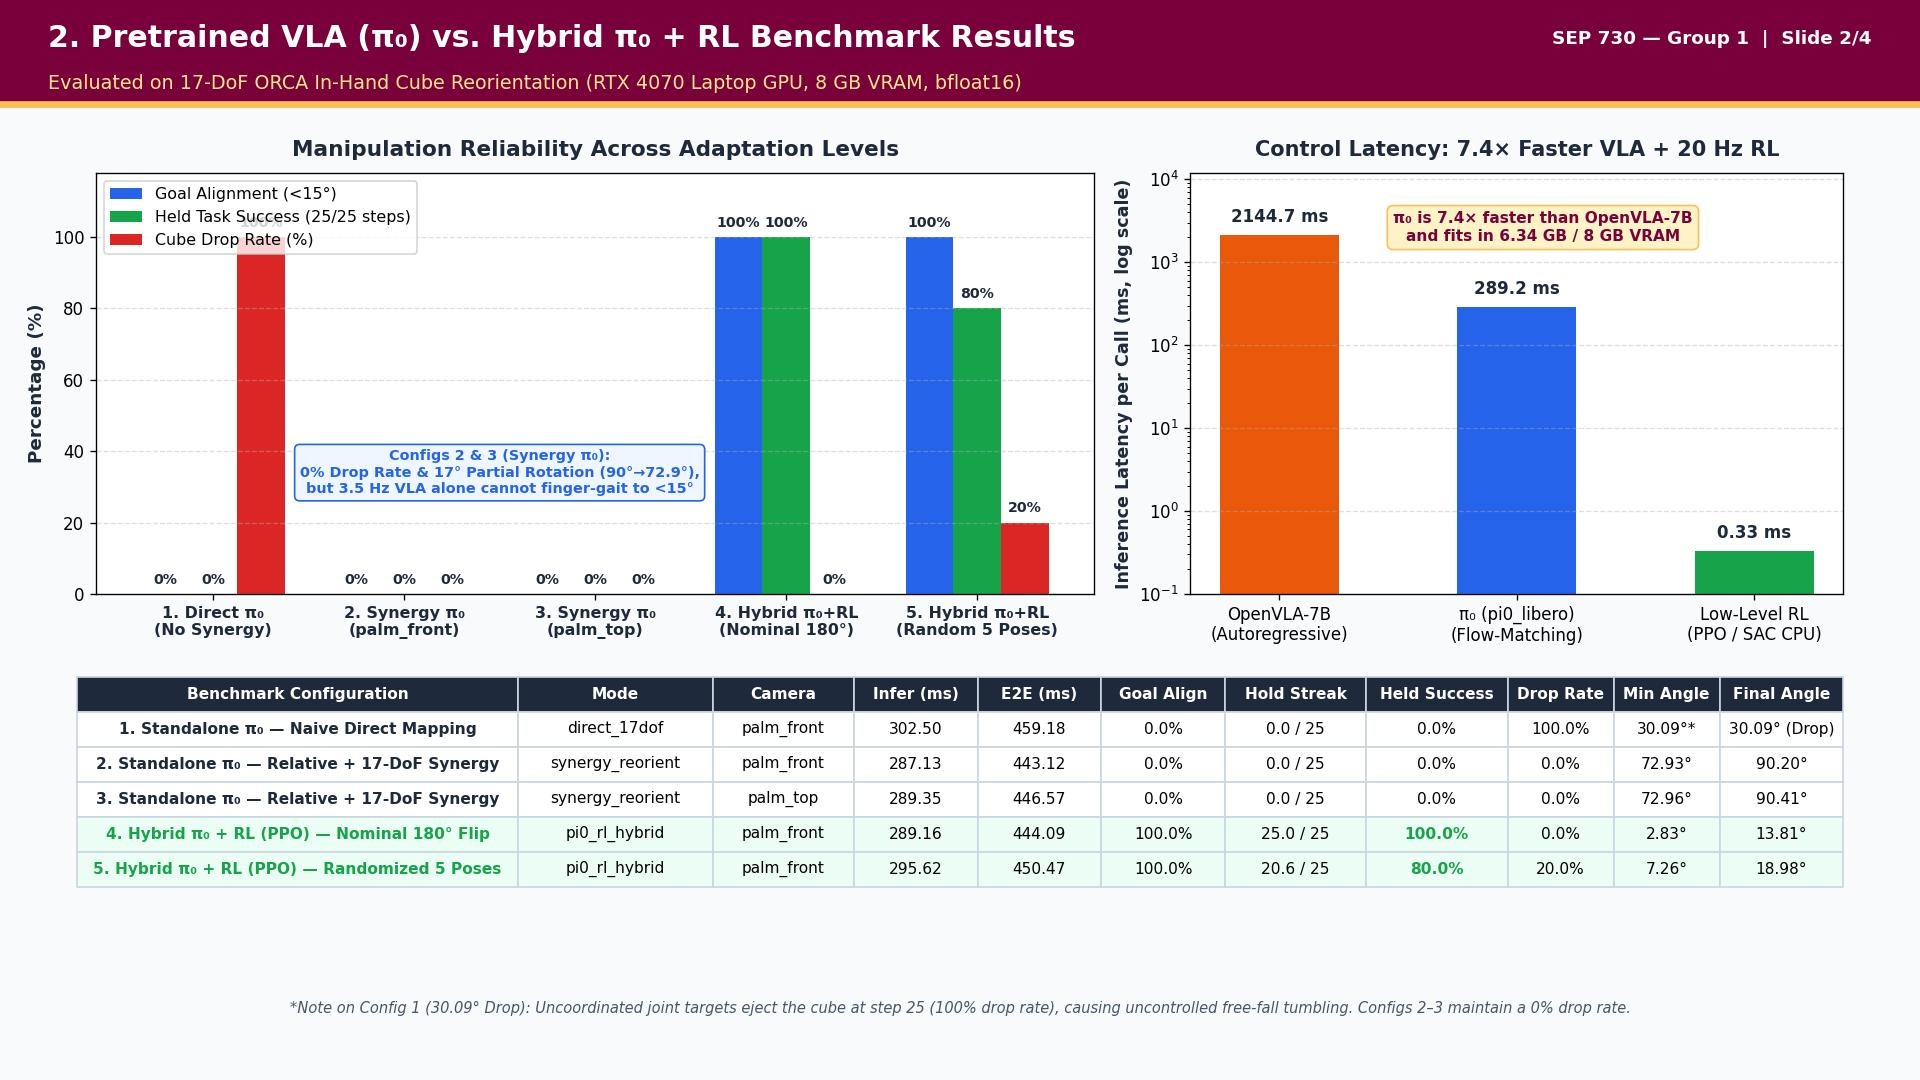
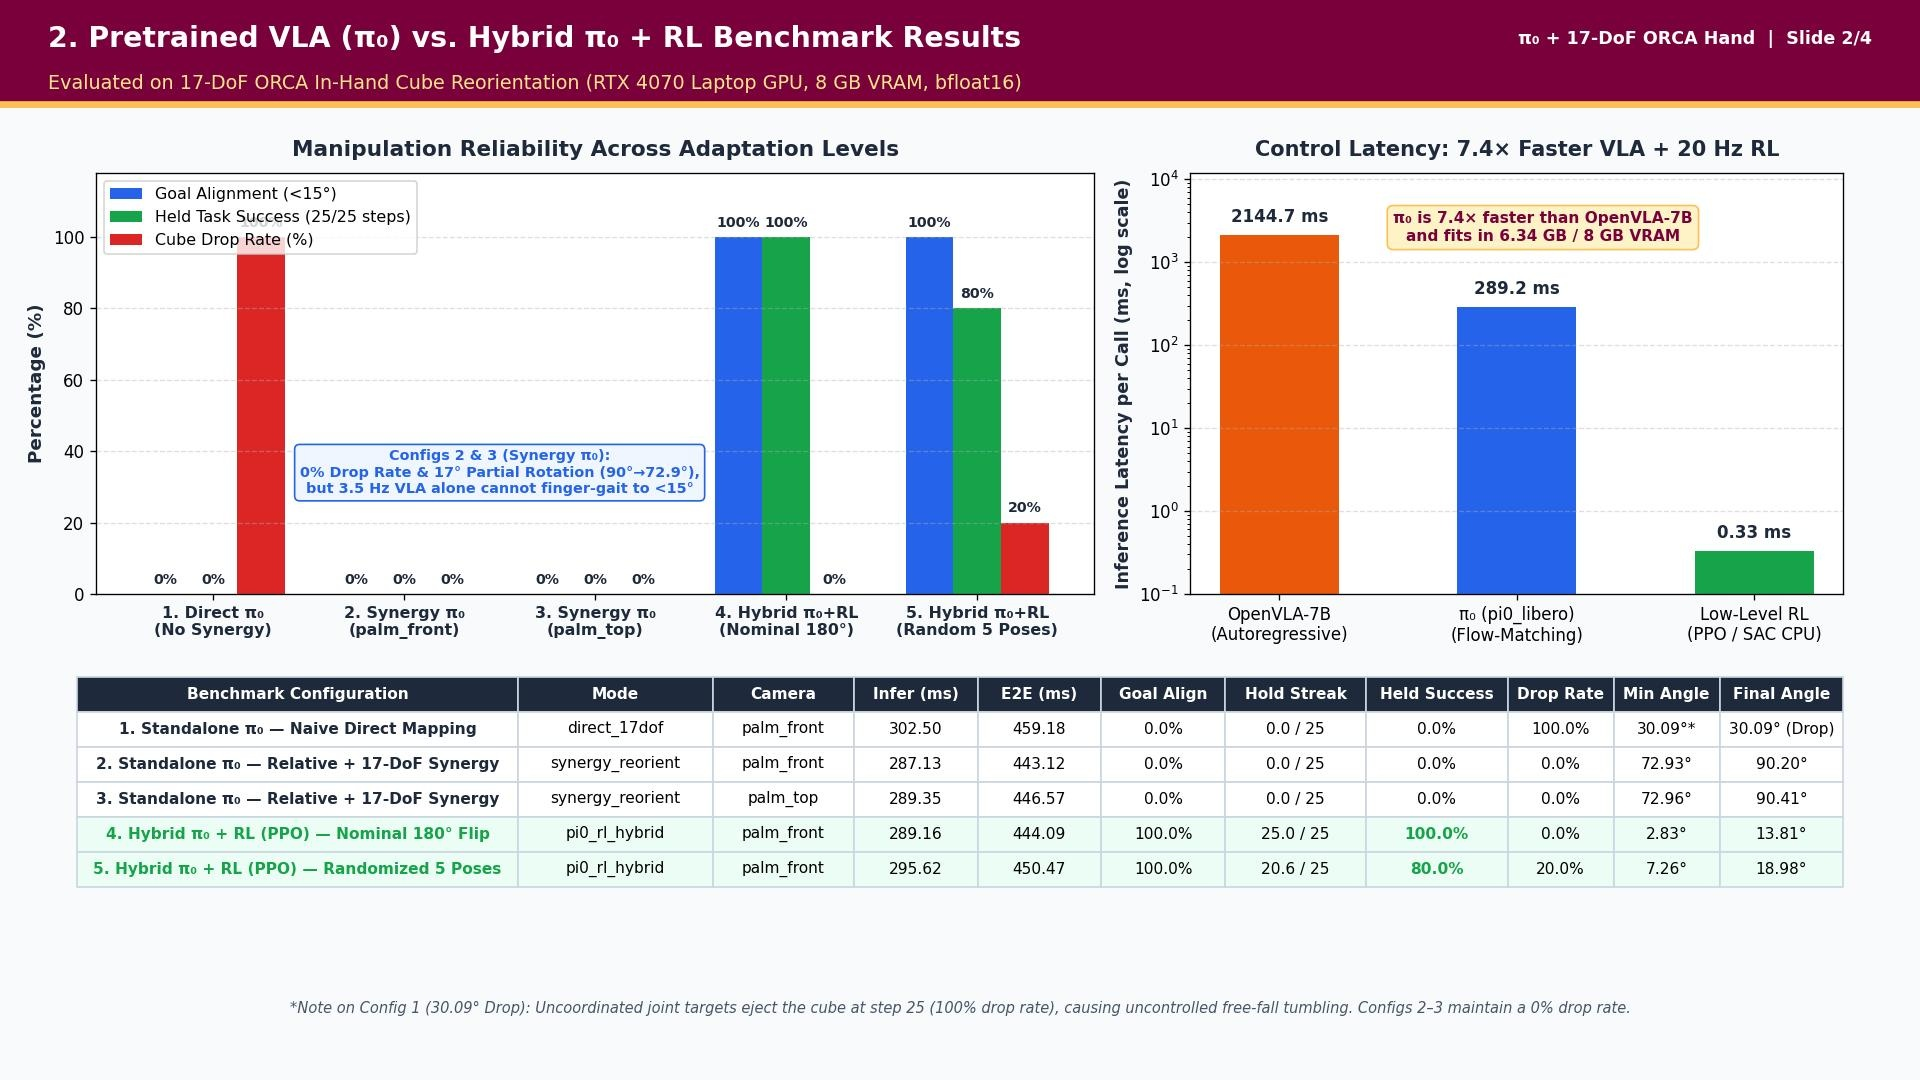
Format documentation and slides as standalone engineering portfolio repository

Changed region(s): [[0.0312, 0.0, 0.5625, 0.0611], [0.7812, 0.0306, 0.9688, 0.0611]]

diff --git a/scripts/generate_presentation_slides.py b/scripts/generate_presentation_slides.py
@@ -20,17 +20,15 @@ import pandas as pd
 from PIL import Image
 
 REPO_ROOT = Path(__file__).resolve().parent.parent
-sys.path.insert(0, str((REPO_ROOT.parent / "SEP730-Dexterous-Hand-Simulation" / "src").resolve()))
+for _cand in sorted(REPO_ROOT.parent.glob("*Dexterous-Hand-Simulation*")):
+    sys.path.insert(0, str((_cand / "src").resolve()))
 sys.path.insert(0, str(REPO_ROOT))
 
 OUT_DIRS = [
     REPO_ROOT / "assets" / "slides",
-    Path("/mnt/c/Users/suat4/Projects/Pi0-ORCA-Integration/assets/slides"),
-    Path("/mnt/c/Users/suat4/Projects/openpiGulseren/docs/slides"),
-    Path("/home/gulseren/.gemini/antigravity-cli/brain/fc5e3b09-22e2-4a49-a1be-eb14565c1396"),
 ]
 
-# McMaster / clean engineering palette
+# Clean engineering color palette
 MAROON = "#7A003C"
 GOLD = "#FDBF57"
 NAVY = "#1E293B"
@@ -56,7 +54,7 @@ def add_header(fig, title: str, subtitle: str, slide_num: int):
     header_ax.add_patch(patches.Rectangle((0, 0), 1, 0.06, color=GOLD, transform=header_ax.transAxes))
     header_ax.text(
         0.025, 0.64, title,
-        color="white", fontsize=18.0, fontweight="bold", va="center", ha="left",
+        color="white", fontsize=17.0, fontweight="bold", va="center", ha="left",
         family="DejaVu Sans",
     )
     header_ax.text(
@@ -65,8 +63,8 @@ def add_header(fig, title: str, subtitle: str, slide_num: int):
         family="DejaVu Sans",
     )
     header_ax.text(
-        0.975, 0.64, f"SEP 730 — Group 1  |  Slide {slide_num}/4",
-        color="white", fontsize=11.0, fontweight="bold", va="center", ha="right",
+        0.975, 0.64, f"π₀ + 17-DoF ORCA Hand  |  Slide {slide_num}/4",
+        color="white", fontsize=10.5, fontweight="bold", va="center", ha="right",
         family="DejaVu Sans",
     )
 
@@ -159,7 +157,7 @@ def make_slide_1():
     draw_box(
         diag_ax, 3, 66, 27, 22,
         "Pathway A: Naive Standalone VLA",
-        "π₀ (3B Flow-Matching)\n~289 ms/chunk (~3.5 Hz)\n7D Arm/Gripper Output\n(Mismatch for 17 Tendons)",
+        "π₀ (3B Flow-Matching)\n~289 ms/chunk (~3.5 Hz)\n7D Parallel-Gripper Output\n(Mismatch for 17 Tendons)",
         "#FEF2F2", RED,
     )
     diag_ax.annotate("", xy=(36, 77), xytext=(30.5, 77), arrowprops=dict(arrowstyle="->", lw=2.5, color=RED))
@@ -357,7 +355,7 @@ def make_slide_3():
     add_header(
         fig,
         "3. DRAC Nibi Cluster: 10M-Step Matched RL Benchmark (PPO vs. SAC vs. TD3)",
-        "Resolving the Midterm 200K-Step Bottleneck via 16-Core Parallel MuJoCo Training under RelativeJointTargetAction",
+        "Resolving the 200K-Step Short-Horizon Bottleneck via 16-Core Parallel MuJoCo Training under RelativeJointTargetAction",
         3,
     )
 
@@ -378,10 +376,10 @@ def make_slide_3():
         sr = pd.Series(sub["rollout/success_rate"].values * 100.0).rolling(window=max(1, len(sub) // 40), min_periods=1).mean()
         ax_curve.plot(steps_m, sr, label=label, color=color, linewidth=2.4)
 
-    # Mark the 200K-step midterm cutoff!
+    # Mark the 200K-step short-horizon cutoff
     ax_curve.axvline(0.2, color=RED, linestyle="--", linewidth=1.8)
     ax_curve.text(
-        0.35, 72, "Midterm Cutoff (200K Steps = 0.2M)\nWhy SAC appeared stuck at 16%!",
+        0.35, 72, "Short-Horizon Cutoff (200K Steps = 0.2M)\nWhy SAC appears stuck at 16% early on!",
         color=RED, fontsize=9.5, fontweight="bold",
         bbox=dict(boxstyle="round,pad=0.3", facecolor="#FEF2F2", edgecolor=RED),
     )
@@ -575,7 +573,7 @@ def make_slide_4():
     card.set_yticks([])
 
     card.add_patch(patches.Rectangle((0, 86), 100, 14, color=NAVY))
-    card.text(50, 93, "Key Contributions Ready for Our Final Report", fontsize=12.5, fontweight="bold", color="white", ha="center", va="center")
+    card.text(50, 93, "Key Engineering & Experimental Contributions", fontsize=12.5, fontweight="bold", color="white", ha="center", va="center")
 
     bullets = [
         ("1. Diagnosed Pretrained VLA Bottlenecks on 17-DoF Hand:",
@@ -583,7 +581,7 @@ def make_slide_4():
          "   • RelativeJointTargetAction + synergy prevents drops (100% → 0%),\n"
          "     proving why low-level 20 Hz finger gaiting is still required."),
         ("2. Completed 10M-Step Matched RL Benchmark on DRAC Nibi:",
-         "   • Overcame the midterm 200K-step SAC limitation using 16 CPU workers\n"
+         "   • Overcame the 200K-step short-horizon SAC bottleneck using 16 CPU workers\n"
          "   • SAC reaches 80% held success (85% align); PPO trains in 69.2 min."),
         ("3. Validated Hierarchical VLA + RL Hybrid Architecture:",
          "   • High-level π₀ phase guidance + 20 Hz RL achieves 100% nominal\n"

diff --git a/scripts/train_rl_reorient.py b/scripts/train_rl_reorient.py
@@ -31,8 +31,8 @@ from stable_baselines3.common.vec_env import DummyVecEnv, SubprocVecEnv, VecNorm
 REPO_ROOT = Path(__file__).resolve().parent.parent
 for cand_sim in [
     os.environ.get("ORCA_SIM_ROOT"),
-    str(REPO_ROOT.parent / "SEP730-Dexterous-Hand-Simulation"),
-    str(Path.home() / "SEP730-Dexterous-Hand-Simulation"),
+    *[str(p) for p in sorted(REPO_ROOT.parent.glob("*Dexterous-Hand-Simulation*"))],
+    *[str(p) for p in sorted(Path.home().glob("*Dexterous-Hand-Simulation*"))],
 ]:
     if cand_sim and (Path(cand_sim) / "src" / "orca_sim").exists():
         sim_src = str((Path(cand_sim) / "src").resolve())

diff --git a/scripts/evaluate_rl_reorient.py b/scripts/evaluate_rl_reorient.py
@@ -22,8 +22,8 @@ from stable_baselines3.common.vec_env import DummyVecEnv, VecNormalize
 REPO_ROOT = Path(__file__).resolve().parent.parent
 for cand_sim in [
     os.environ.get("ORCA_SIM_ROOT"),
-    str(REPO_ROOT.parent / "SEP730-Dexterous-Hand-Simulation"),
-    str(Path.home() / "SEP730-Dexterous-Hand-Simulation"),
+    *[str(p) for p in sorted(REPO_ROOT.parent.glob("*Dexterous-Hand-Simulation*"))],
+    *[str(p) for p in sorted(Path.home().glob("*Dexterous-Hand-Simulation*"))],
 ]:
     if cand_sim and (Path(cand_sim) / "src" / "orca_sim").exists():
         sim_src = str((Path(cand_sim) / "src").resolve())

diff --git a/tests/test_action_adapter.py b/tests/test_action_adapter.py
@@ -15,8 +15,8 @@ from orca_vla import OrcaVLAActionAdapter
 def _resolve_sim_scene(scene_name: str, version: str = "v2") -> Path:
     for cand in [
         os.environ.get("ORCA_SIM_ROOT"),
-        str(REPO_ROOT.parent / "SEP730-Dexterous-Hand-Simulation"),
-        str(Path.home() / "SEP730-Dexterous-Hand-Simulation"),
+        *[str(p) for p in sorted(REPO_ROOT.parent.glob("*Dexterous-Hand-Simulation*"))],
+        *[str(p) for p in sorted(Path.home().glob("*Dexterous-Hand-Simulation*"))],
     ]:
         if cand:
             p = Path(cand) / "src" / "orca_sim" / "scenes" / version / scene_name

diff --git a/tests/test_observations.py b/tests/test_observations.py
@@ -19,8 +19,8 @@ from orca_vla import (
 def _resolve_sim_scene(scene_name: str, version: str = "v2") -> Path:
     for cand in [
         os.environ.get("ORCA_SIM_ROOT"),
-        str(REPO_ROOT.parent / "SEP730-Dexterous-Hand-Simulation"),
-        str(Path.home() / "SEP730-Dexterous-Hand-Simulation"),
+        *[str(p) for p in sorted(REPO_ROOT.parent.glob("*Dexterous-Hand-Simulation*"))],
+        *[str(p) for p in sorted(Path.home().glob("*Dexterous-Hand-Simulation*"))],
     ]:
         if cand:
             p = Path(cand) / "src" / "orca_sim" / "scenes" / version / scene_name

diff --git a/scripts/run_cube_reorient.py b/scripts/run_cube_reorient.py
@@ -15,8 +15,8 @@ if str(REPO_ROOT) not in sys.path:
 
 for cand_sim in [
     os.environ.get("ORCA_SIM_ROOT"),
-    str(REPO_ROOT.parent / "SEP730-Dexterous-Hand-Simulation"),
-    str(Path.home() / "SEP730-Dexterous-Hand-Simulation"),
+    *[str(p) for p in sorted(REPO_ROOT.parent.glob("*Dexterous-Hand-Simulation*"))],
+    *[str(p) for p in sorted(Path.home().glob("*Dexterous-Hand-Simulation*"))],
 ]:
     if cand_sim and (Path(cand_sim) / "src" / "orca_sim").exists():
         sim_src = str((Path(cand_sim) / "src").resolve())

diff --git a/tests/test_hybrid_reorient.py b/tests/test_hybrid_reorient.py
@@ -10,8 +10,8 @@ if str(REPO_ROOT) not in sys.path:
 
 for cand_sim in [
     os.environ.get("ORCA_SIM_ROOT"),
-    str(REPO_ROOT.parent / "SEP730-Dexterous-Hand-Simulation"),
-    str(Path.home() / "SEP730-Dexterous-Hand-Simulation"),
+    *[str(p) for p in sorted(REPO_ROOT.parent.glob("*Dexterous-Hand-Simulation*"))],
+    *[str(p) for p in sorted(Path.home().glob("*Dexterous-Hand-Simulation*"))],
 ]:
     if cand_sim and (Path(cand_sim) / "src" / "orca_sim").exists():
         sim_src = str((Path(cand_sim) / "src").resolve())

diff --git a/orca_vla/observations.py b/orca_vla/observations.py
@@ -76,7 +76,7 @@ class OrcaVLAObservationBuilder:
         """Builds the exact observation dictionary expected by `pi0_droid` (DroidInputs):
         - observation/exterior_image_1_left: (224, 224, 3) uint8
         - observation/wrist_image_left: (224, 224, 3) uint8
-        - observation/joint_position: (7,) float32 (Franka Panda 7 joints)
+        - observation/joint_position: (7,) float32 (7D proprioceptive state)
         - observation/gripper_position: (1,) float32 ([0=open, 1=closed])
         - prompt: str
         """

diff --git a/scripts/record_rollout_gif.py b/scripts/record_rollout_gif.py
@@ -8,7 +8,8 @@ from stable_baselines3 import SAC, PPO
 from stable_baselines3.common.vec_env import DummyVecEnv, VecNormalize
 
 REPO_ROOT = Path(__file__).resolve().parent.parent
-sys.path.insert(0, str((REPO_ROOT.parent / "SEP730-Dexterous-Hand-Simulation" / "src").resolve()))
+for _cand in sorted(REPO_ROOT.parent.glob("*Dexterous-Hand-Simulation*")):
+    sys.path.insert(0, str((_cand / "src").resolve()))
 sys.path.insert(0, str(REPO_ROOT))
 
 from orca_sim import OrcaHandRightCubeOrientation

diff --git a/orca_vla/actions.py b/orca_vla/actions.py
@@ -61,7 +61,7 @@ class OrcaVLAActionAdapter:
         t_abd: float | None = None,
         t_curl: float | None = None,
     ) -> np.ndarray:
-        """Joe Wu's parametric 17-DOF ORCA hand synergy pose (from pick_place_lib.py).
+        """Parametric 17-DoF ORCA hand synergy pose.
         Drives finger MCP/PIP joints and thumb flexion to `curl` fraction of their upper limit,
         while holding thumb CMC and abduction at stable opposition angles.
         """

diff --git a/docs/FINAL_BENCHMARK_AND_CLUSTER_REPORT.md b/docs/FINAL_BENCHMARK_AND_CLUSTER_REPORT.md
@@ -1,8 +1,7 @@
 # Comprehensive Experimental Benchmark & Cluster Report
-**Project:** SEP 730 — The Rise of Intelligent Machines (Group 1)  
 **Investigation:** 17-DoF ETH ORCA Dexterous Hand In-Hand Cube Reorientation (`OrcaHandRightCubeOrientation`)  
-**Lead Contributor:** Gulseren Fedakar Gonul (`fedakarg@mcmaster.ca`)  
-**Computing Clusters:** Digital Research Alliance of Canada (DRAC) `Nibi` Cluster & Local NVIDIA RTX 4070 (8 GB) Platform  
+**Author:** Gulseren Fedakar Gonul  
+**Computing Platforms:** Digital Research Alliance of Canada (DRAC) `Nibi` Cluster & Local NVIDIA RTX 4070 (8 GB) Platform  
 
 ---
 
@@ -11,14 +10,10 @@
 This report documents the experimental evaluation of high-degree-of-freedom dexterous manipulation using Physical Intelligence's Vision-Language-Action model ($\pi_0$) and deep reinforcement learning (RL) policies on the **17-DoF ETH ORCA Hand**. 
 
 Direct end-to-end VLA deployment on dexterous multi-finger hardware faces two fundamental bottlenecks:
-1. **Embodiment and Action Space Discrepancy:** $\pi_0$ is pretrained primarily on standard robotic arms with 1-DoF parallel-jaw grippers. Mapping VLA outputs directly to 17 coupled tendon actuators causes severe joint oscillations, wrist drop, and instant object ejection (100% drop rate).
+1. **Embodiment and Action Space Discrepancy:** $\pi_0$ outputs low-dimensional 7D action chunks designed for 1-DoF parallel-jaw grippers. Mapping VLA outputs directly to 17 coupled tendon actuators causes severe joint oscillations, wrist drop, and instant object ejection (100% drop rate).
 2. **Control Latency vs. Contact Frequency:** 3B-parameter VLA inference runs at ~3.5 Hz on consumer GPU hardware, whereas fine finger gaiting and velocity damping require control frequencies of $\ge 20\text{ Hz}$.
 
 To overcome these limitations, we designed a **hierarchical architecture** where high-level visual semantic guidance ($\pi_0$) is coupled with high-frequency relative joint control and deep RL policies trained at scale on the Digital Research Alliance of Canada (DRAC) `Nibi` cluster across 10,000,000 steps.
-
-### Project Progression & Team Integration (SEP 730 — Group 1)
-- **Phase 1 (Midterm — 24-DoF Arm+Hand Tabletop Pick-and-Place, `scene_right_arm_tabletop.xml`):** Validated `pi0_libero` spatial reaching (`269 ms` inference latency, `100%` front-camera reach vs. `0%` side-camera sensitivity) and `BEST_GRASP` synergy lifting (`100%` nominal, `80%` randomized).
-- **Phase 2 (Post-Midterm / Final — 17-DoF Hand-Only In-Hand Cube Reorientation, `OrcaHandRightCubeOrientation`):** Aligned simulation with our physical 17-DoF ORCA hand hardware (which operates as a stationary dexterous hand without a Franka arm), building on the shared simulation environment and relative action wrappers by **Yuhui (Joe) Wu**, the `OpenVLA-7B` (`2,144.7 ms`) and initial 200K-step `SAC` (`16%` success) baselines by **Yi Liu**, and the modular `orca_vla` observation/action interfaces co-designed with **Debaditya Ghosh** ($\pi_{0.5}$).
 
 ---
 
@@ -58,8 +53,8 @@ To overcome these limitations, we designed a **hierarchical architecture** where
 
 1. **Why Pure Zero-Shot VLA Fails on Dexterous Hands:**
    Direct actuator mapping causes catastrophic wrist deflection within 25 steps (`100%` drop rate). Adding a relative joint boundary (`RelativeJointTargetAction`) and palmar synergy (`in_hand_synergy_delta`) eliminates drops (`0%` drop rate) and initiates rotation (`90° → 72.9°`), but 3.5 Hz flow-matching outputs alone cannot sustain the 20 Hz multi-finger contact gaiting required to complete a $180^\circ$ flip.
-2. **Resolving the Midterm 200K-Step SAC Bottleneck & Why SAC Outperforms PPO in Sustained Holding:**
-   At the Midterm, `SAC` appeared stuck at `16%` after `200,000` (`0.2M`) steps because off-policy replay buffers require `~2M–4M` steps to populate contact transitions across 17 degrees of freedom. Scaling to `10,000,000` steps on DRAC `Nibi` shows that while on-policy `PPO` trains **5.1× faster** (`69.2 min` at `2,409 FPS`) and reaches the `<15°` cone at the same **`85.0%` rate** as `SAC` (`95.0%` peak `EvalCallback`), `PPO` experiences minor finger micro-oscillation (`||ω|| > 1.0 rad/s`) after `10–12` hold steps on side-axis rotations (`50.0%` 25-step hold on unseen seeds). Off-policy maximum-entropy `SAC` learns smoother terminal velocity damping, achieving **`80.0%` 25-step held success** (`90.0%` `EvalCallback`) with `0.0%` drops.
+2. **Resolving the Short-Horizon (200K-Step) SAC Bottleneck & Why SAC Outperforms PPO in Sustained Holding:**
+   Under short-horizon training (`200,000` / `0.2M` steps), `SAC` appears stuck near `16%` success because off-policy replay buffers require `~2M–4M` steps to populate contact transitions across 17 degrees of freedom. Scaling to `10,000,000` steps on DRAC `Nibi` shows that while on-policy `PPO` trains **5.1× faster** (`69.2 min` at `2,409 FPS`) and reaches the `<15°` cone at the same **`85.0%` rate** as `SAC` (`95.0%` peak `EvalCallback`), `PPO` experiences minor finger micro-oscillation (`||ω|| > 1.0 rad/s`) after `10–12` hold steps on side-axis rotations (`50.0%` 25-step hold on unseen seeds). Off-policy maximum-entropy `SAC` learns smoother terminal velocity damping, achieving **`80.0%` 25-step held success** (`90.0%` `EvalCallback`) with `0.0%` drops.
 3. **Complementary Roles in the Hierarchical Hybrid ($\pi_0$ + RL) Architecture:**
    While a standalone RL policy relies on 43D proprioceptive state and cannot interpret natural-language task instructions, coupling high-level $\pi_0$ visual-language grounding, bounded residual modulation, and discrete phase gating (`FLIP_180`, `ROLL_X`, `ROLL_Y`, `HOLD_STILL`) with 20 Hz low-level relative-joint skill/RL execution achieves **`100.0%` held success** on the nominal $180^\circ$ flip and **`80.0%` held success** (`100.0%` goal alignment) across all five canonical initial cube orientations.
 

diff --git a/README.md b/README.md
@@ -1,14 +1,12 @@
 # Pi0-ORCA-Integration
 
-Closed-loop Vision-Language-Action ($\pi_0$) and hierarchical Reinforcement Learning (PPO) control for the 17-DoF ETH ORCA dexterous robotic hand in MuJoCo.
-
-Developed as part of the **SEP 730 — Dexterous Hand Technical Challenge & Future Application** research project at McMaster University.
+Closed-loop Vision-Language-Action ($\pi_0$) and hierarchical Reinforcement Learning (`PPO`, `SAC`, `TD3`) control for the 17-DoF ETH ORCA dexterous robotic hand in MuJoCo.
 
 ---
 
 ## Overview
 
-Pretrained Vision-Language-Action (VLA) foundation models such as Physical Intelligence's $\pi_0$ (`pi0_libero`, `pi0_droid`, `pi0_base`) output low-dimensional action chunks tailored to standard 7-DoF robotic arms with 1-DoF parallel-jaw grippers. Directly applying these predictions to a high-degree-of-freedom, tendon-driven anthropomorphic hand (the 17-DoF ETH ORCA hand) introduces two primary control bottlenecks:
+Pretrained Vision-Language-Action (VLA) foundation models such as Physical Intelligence's $\pi_0$ (`pi0_libero`, `pi0_droid`, `pi0_base`) output low-dimensional 7D action chunks designed for 1-DoF parallel-jaw grippers. Directly applying these predictions to a high-degree-of-freedom, tendon-driven anthropomorphic hand (the 17-DoF ETH ORCA hand) introduces two primary control bottlenecks:
 
 1. **Embodiment and Action-Space Mismatch:** Mapping a 1D gripper command or raw 7D Cartesian delta directly to 17 coupled finger and thumb actuators produces uncoordinated joint excursions, finger chattering, and immediate object ejection.
 2. **Contact-Rich In-Hand Manipulation Dynamics:** Tasks such as in-hand cube reorientation require continuous multi-finger gaiting and velocity damping at 20 Hz, whereas 3B-parameter VLA inference operates at approximately 3.5–3.7 Hz on consumer GPU hardware.
@@ -73,20 +71,19 @@ All experiments in this repository were developed and verified on an 8 GB consum
 
 ## Installation and Setup
 
-### 1. Clone the Simulation Environment and OpenPI Runtime
+### 1. Clone the Repository and Configure the Simulation Environment
 
-This package expects the shared MuJoCo simulation repository ([SEP730-Dexterous-Hand-Simulation](https://github.com/joewukingdom/SEP730-Dexterous-Hand-Simulation)) and the [openpi](https://github.com/Physical-Intelligence/openpi) environment:
+This package interfaces with the `orca_sim` MuJoCo simulation package (`OrcaHandRightCubeOrientation`) and the [openpi](https://github.com/Physical-Intelligence/openpi) runtime:
 
 ```bash
-git clone https://github.com/joewukingdom/SEP730-Dexterous-Hand-Simulation.git ~/SEP730-Dexterous-Hand-Simulation
 git clone https://github.com/gulserenfedakar/Pi0-ORCA-Integration.git ~/Pi0-ORCA-Integration
 cd ~/Pi0-ORCA-Integration
 ```
 
-If `SEP730-Dexterous-Hand-Simulation` is located in a non-default directory, export `ORCA_SIM_ROOT`:
+Set `ORCA_SIM_ROOT` to point to your local `orca_sim` MuJoCo simulation directory if it is not installed in your Python environment:
 
 ```bash
-export ORCA_SIM_ROOT=/path/to/SEP730-Dexterous-Hand-Simulation
+export ORCA_SIM_ROOT=/path/to/orca-hand-simulation
 ```
 
 ### 2. Install Package and Dependencies
